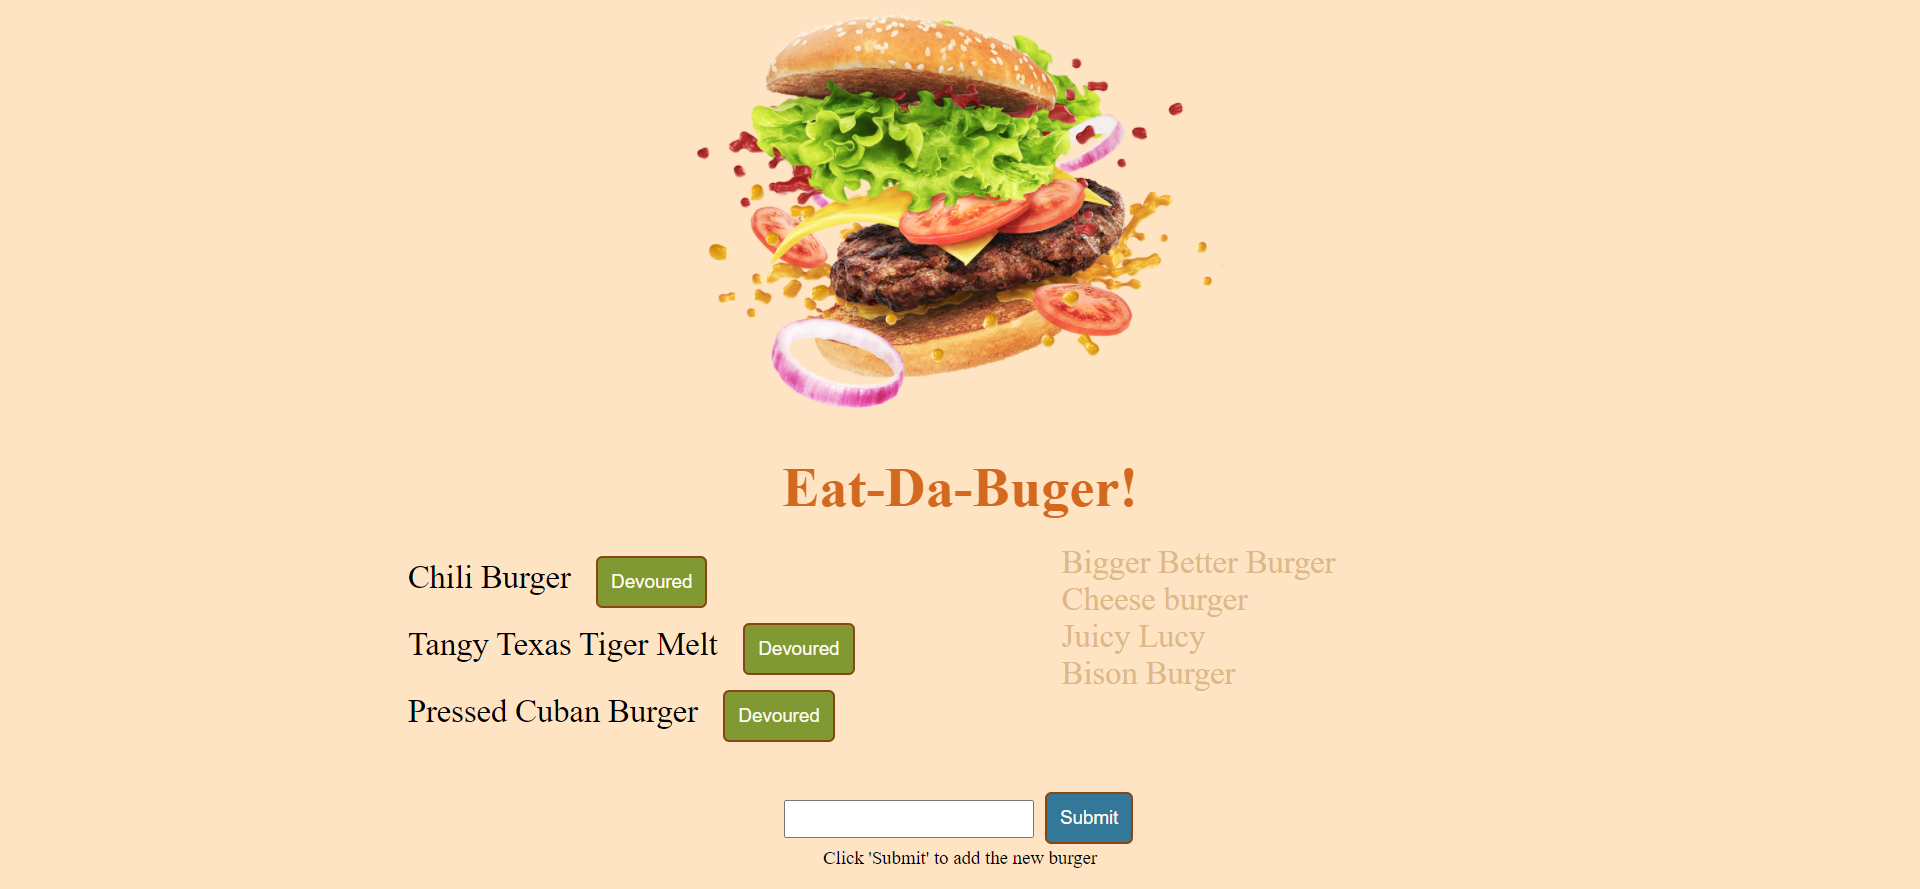
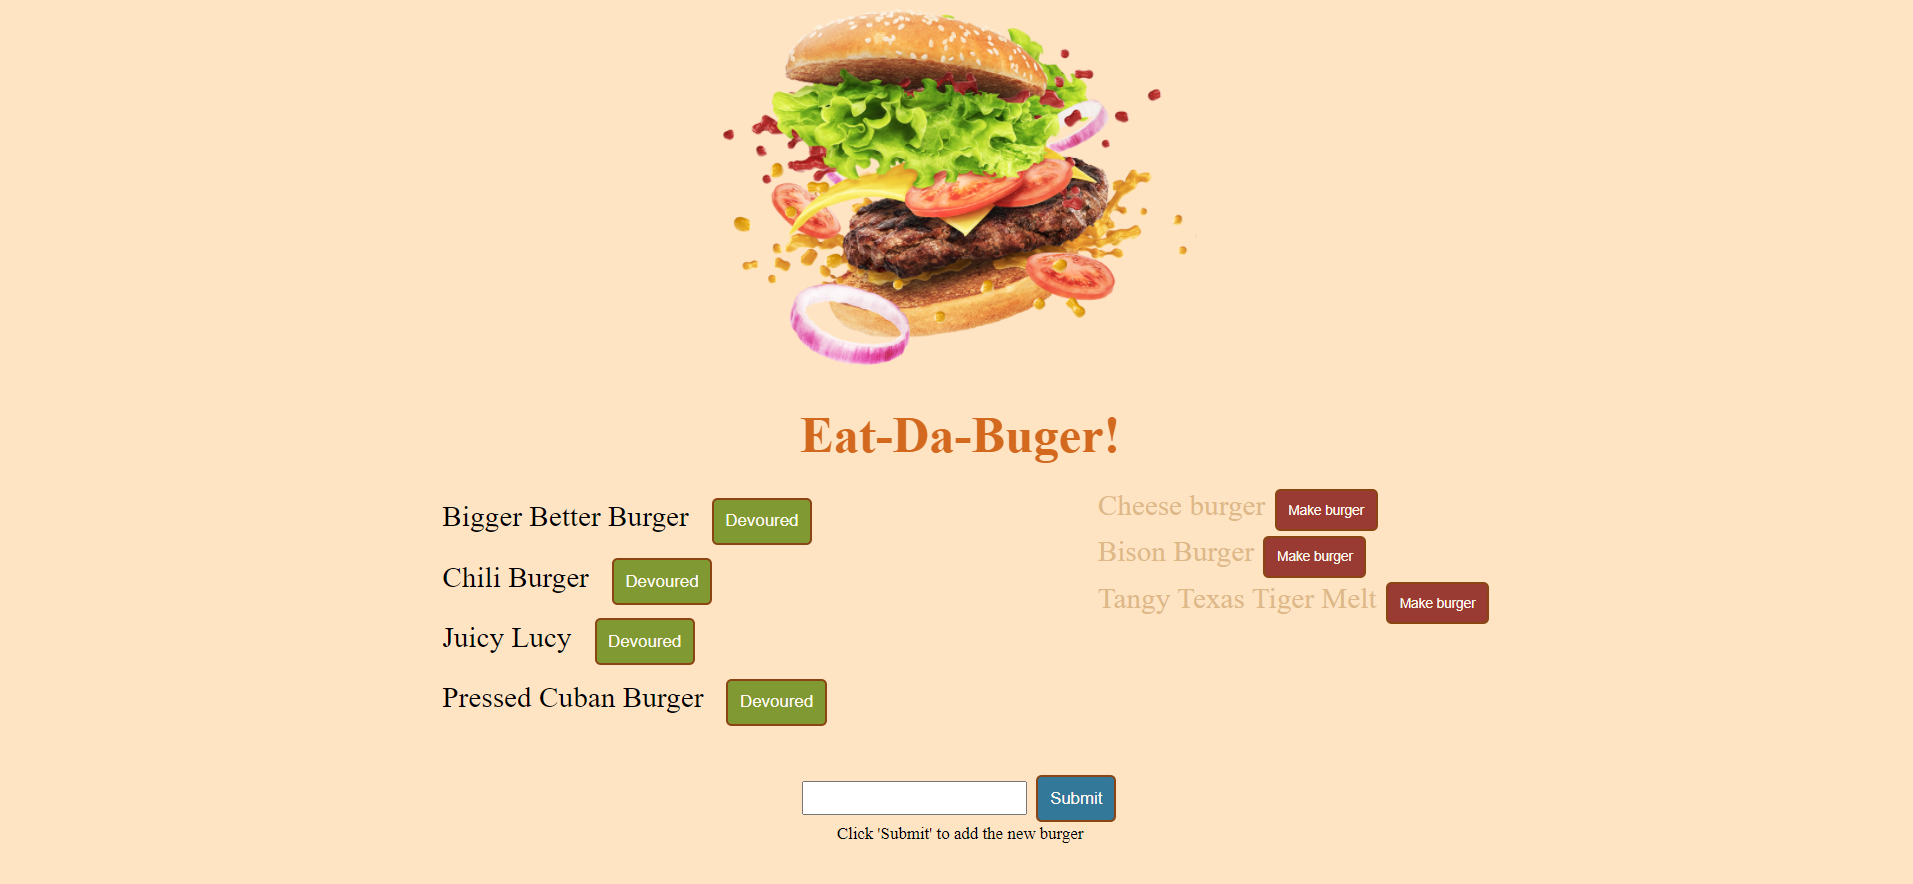
make burger button

Changed region(s): [[0.2159, 0.0, 0.8019, 0.8552], [0.4009, 0.8552, 0.6168, 0.9774]]

diff --git a/public/assets/css/burger_style.css b/public/assets/css/burger_style.css
@@ -43,8 +43,8 @@ button {
 }
 
 .not-devoured {
-    margin-right: 10vw;
-    margin-left: -10vw;
+    margin-right: 7vw;
+    margin-left: -7vw;
 }
 
 .not-devoured li{
@@ -55,7 +55,8 @@ button {
 }
 
 .devoured {
-    margin-left: 10px;
+    margin-left: 7vw;
+    margin-right: -7vw;
 }
 
 .devoured li {
@@ -63,8 +64,16 @@ button {
     color: burlywood;
 }
 
+.devoured button {
+    background-color: hsl(5,50%,40%);
+    font-size: 10px;
+    height: auto;
+    width: auto;
+}
+
 .create-from {
     margin-top: 5vh;
+    margin-bottom: 5vh;
     text-align: center;
 }
 

diff --git a/public/assets/js/index.js b/public/assets/js/index.js
@@ -5,7 +5,12 @@ $(function() {
         console.log(this);
         console.log(devoured);
         console.log(id);
-        devoured = 1;
+        if(devoured === 0) {
+            devoured = 1;
+        } else {
+            devoured = 0;
+        }
+
         const devourState = {
             devoured: devoured
         };
